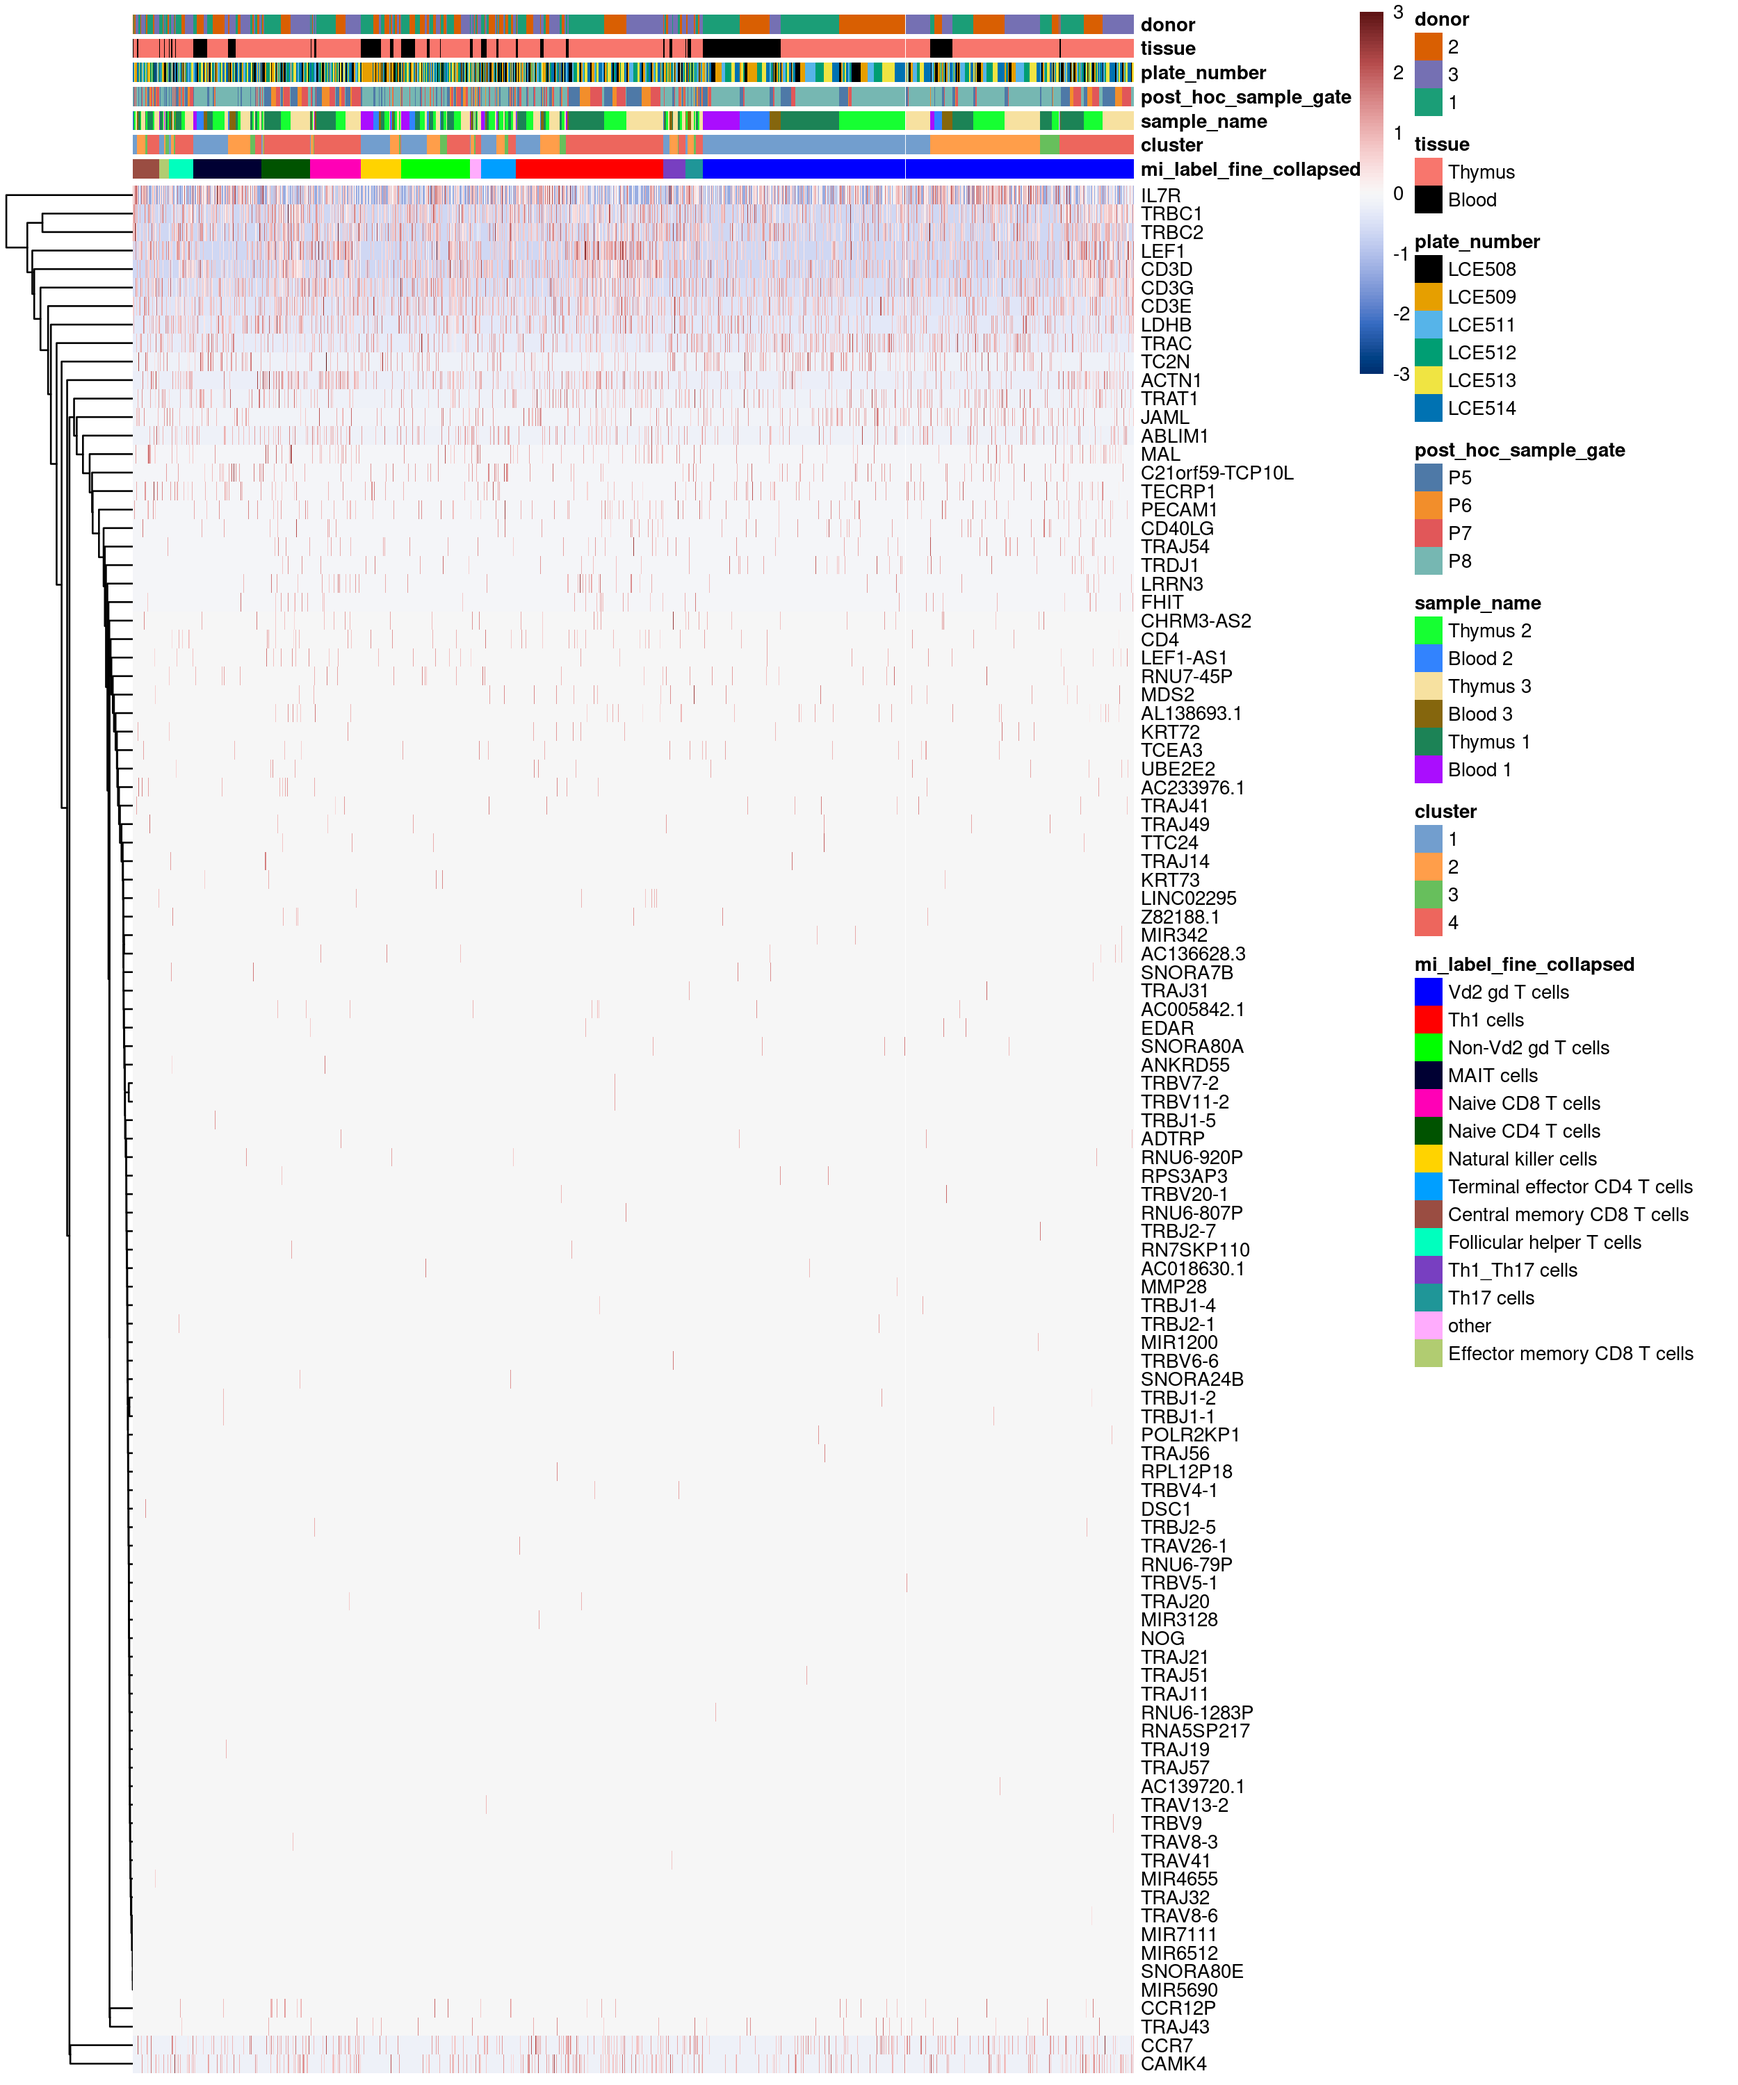
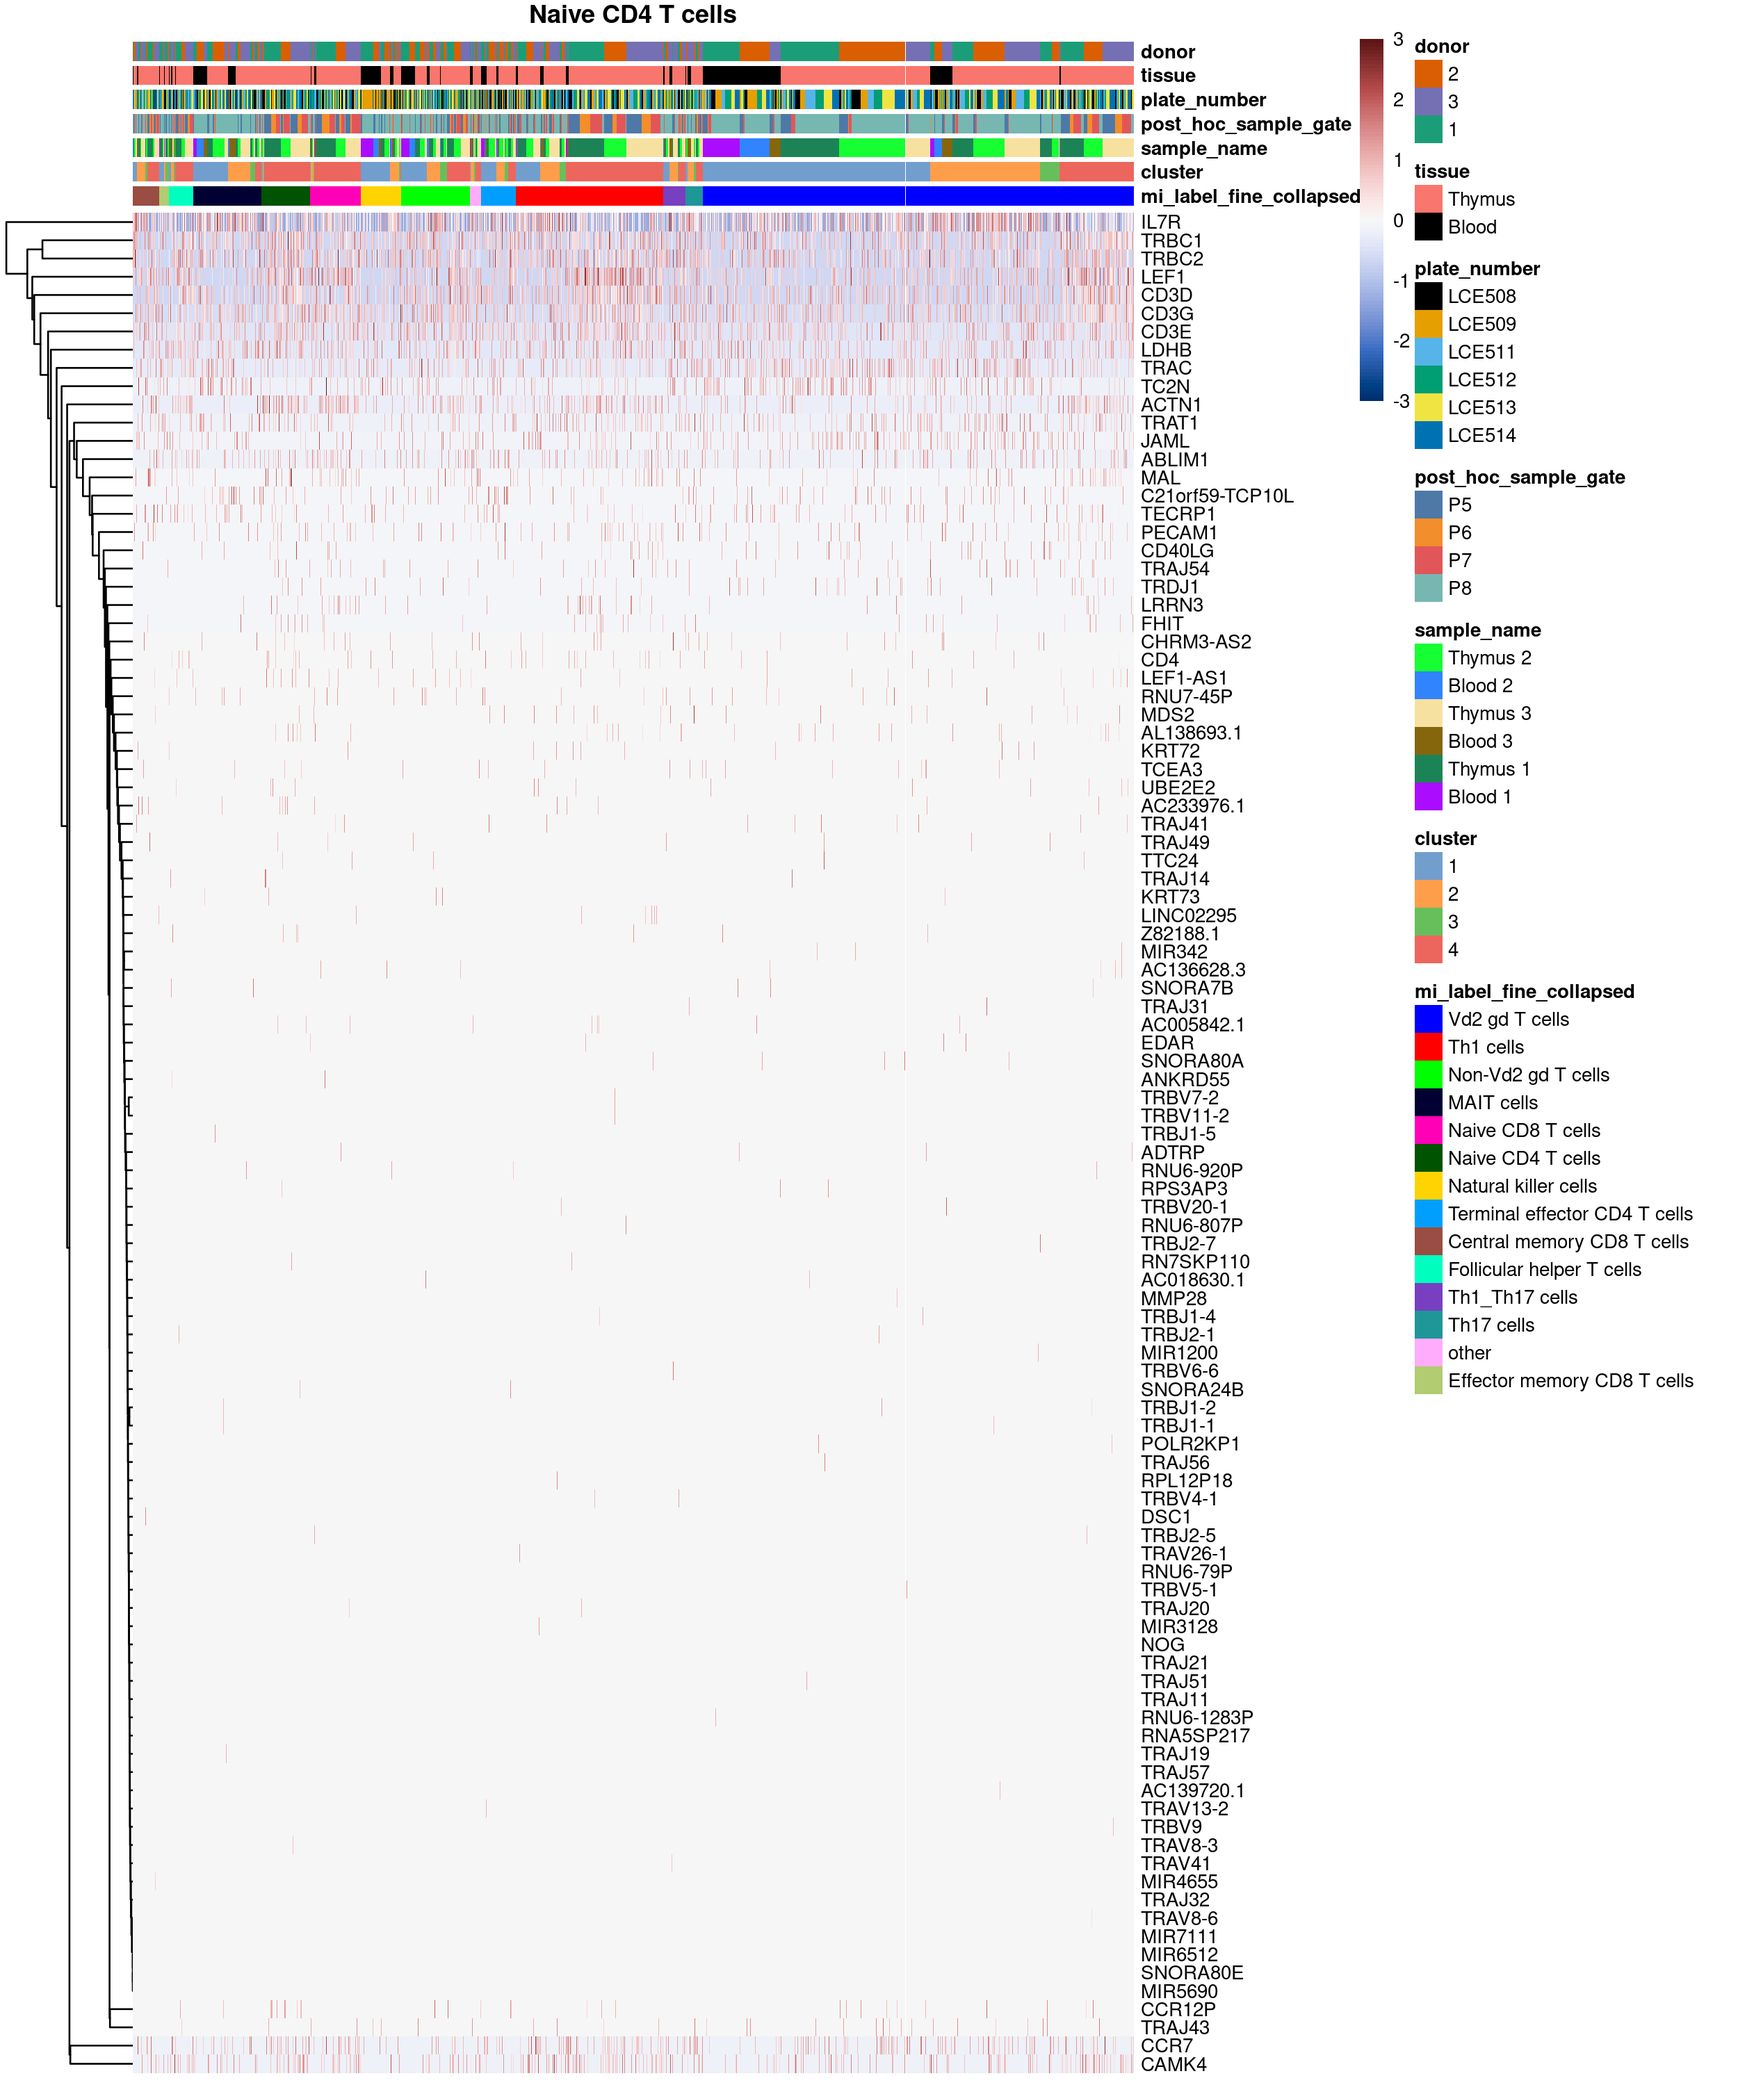
fix titles of plots

Changed region(s): [[0.0, 0.0, 0.9672, 0.992], [0.468, 0.248, 0.4992, 0.279], [0.156, 0.279, 0.1872, 0.31]]

diff --git a/docs/C094_Pellicci.annotate.html b/docs/C094_Pellicci.annotate.html
@@ -4559,7 +4559,7 @@ Show code
   symmetric <span class='op'>=</span> <span class='cn'>TRUE</span>,
   zlim <span class='op'>=</span> <span class='fu'><a href='https://rdrr.io/r/base/c.html'>c</a></span><span class='op'>(</span><span class='op'>-</span><span class='fl'>3</span>, <span class='fl'>3</span><span class='op'>)</span>,
   show_colnames <span class='op'>=</span> <span class='cn'>FALSE</span>,
-  fine <span class='op'>=</span> <span class='va'>example_label</span>,
+  main <span class='op'>=</span> <span class='va'>example_label</span>,
   column_annotation_colors <span class='op'>=</span> <span class='fu'><a href='https://rdrr.io/r/base/list.html'>list</a></span><span class='op'>(</span>
      mi_label_fine_collapsed <span class='op'>=</span> <span class='va'>mi_label_fine_colours</span>,
      cluster <span class='op'>=</span> <span class='va'>cluster_colours</span>,
@@ -4598,8 +4598,8 @@ Show code
     <span class='va'>sce</span><span class='op'>$</span><span class='va'>tissue</span>,
     <span class='va'>sce</span><span class='op'>$</span><span class='va'>donor</span><span class='op'>)</span>,
   order_columns_by <span class='op'>=</span> <span class='fu'><a href='https://rdrr.io/r/base/c.html'>c</a></span><span class='op'>(</span>
-    <span class='st'>"mi_label_fine_collapsed"</span>,
     <span class='st'>"cluster"</span>,
+    <span class='st'>"mi_label_fine_collapsed"</span>,
     <span class='st'>"sample_name"</span>,
     <span class='st'>"post_hoc_sample_gate"</span>,
     <span class='st'>"plate_number"</span>,
@@ -4610,10 +4610,10 @@ Show code
   symmetric <span class='op'>=</span> <span class='cn'>TRUE</span>,
   zlim <span class='op'>=</span> <span class='fu'><a href='https://rdrr.io/r/base/c.html'>c</a></span><span class='op'>(</span><span class='op'>-</span><span class='fl'>3</span>, <span class='fl'>3</span><span class='op'>)</span>,
   show_colnames <span class='op'>=</span> <span class='cn'>FALSE</span>,
-  fine <span class='op'>=</span> <span class='va'>example_label</span>,
+  main <span class='op'>=</span> <span class='va'>example_label</span>,
   column_annotation_colors <span class='op'>=</span> <span class='fu'><a href='https://rdrr.io/r/base/list.html'>list</a></span><span class='op'>(</span>
-     mi_label_fine_collapsed <span class='op'>=</span> <span class='va'>mi_label_fine_colours</span>,
      cluster <span class='op'>=</span> <span class='va'>cluster_colours</span>,
+     mi_label_fine_collapsed <span class='op'>=</span> <span class='va'>mi_label_fine_colours</span>,
      sample_name <span class='op'>=</span> <span class='va'>sample_name_colours</span>,
      post_hoc_sample_gate <span class='op'>=</span> <span class='va'>sample_gate_colours</span>,
      plate_number <span class='op'>=</span> <span class='va'>plate_number_colours</span>,    
@@ -4702,7 +4702,7 @@ Show code
        tissue <span class='op'>=</span> <span class='va'>tissue_colours</span>,
        donor <span class='op'>=</span> <span class='va'>donor_colours</span><span class='op'>)</span>,
     color <span class='op'>=</span> <span class='fu'><a href='https://rdrr.io/r/grDevices/palettes.html'>hcl.colors</a></span><span class='op'>(</span><span class='fl'>101</span>, <span class='st'>"Blue-Red 3"</span><span class='op'>)</span>,
-    fine <span class='op'>=</span> <span class='va'>label</span>,
+    main <span class='op'>=</span> <span class='va'>label</span>,
     fontsize <span class='op'>=</span> <span class='fl'>8</span><span class='op'>)</span>
   
   <span class='fu'><a href='https://rdrr.io/r/grDevices/dev.html'>dev.off</a></span><span class='op'>(</span><span class='op'>)</span>
@@ -4745,8 +4745,8 @@ Show code
       <span class='va'>sce</span><span class='op'>$</span><span class='va'>tissue</span>,
       <span class='va'>sce</span><span class='op'>$</span><span class='va'>donor</span><span class='op'>)</span>,
     colour_columns_by <span class='op'>=</span> <span class='fu'><a href='https://rdrr.io/r/base/c.html'>c</a></span><span class='op'>(</span>
-      <span class='st'>"mi_label_fine_collapsed"</span>,
       <span class='st'>"cluster"</span>,
+      <span class='st'>"mi_label_fine_collapsed"</span>,
       <span class='st'>"sample_name"</span>,
       <span class='st'>"post_hoc_sample_gate"</span>,
       <span class='st'>"plate_number"</span>,
@@ -4758,15 +4758,15 @@ Show code
     zlim <span class='op'>=</span> <span class='fu'><a href='https://rdrr.io/r/base/c.html'>c</a></span><span class='op'>(</span><span class='op'>-</span><span class='fl'>3</span>, <span class='fl'>3</span><span class='op'>)</span>,
     show_colnames <span class='op'>=</span> <span class='cn'>FALSE</span>,
     column_annotation_colors <span class='op'>=</span> <span class='fu'><a href='https://rdrr.io/r/base/list.html'>list</a></span><span class='op'>(</span>
-       mi_label_fine_collapsed <span class='op'>=</span> <span class='va'>mi_label_fine_colours</span>,
        cluster <span class='op'>=</span> <span class='va'>cluster_colours</span>,
+       mi_label_fine_collapsed <span class='op'>=</span> <span class='va'>mi_label_fine_colours</span>,
        sample_name <span class='op'>=</span> <span class='va'>sample_name_colours</span>,
        post_hoc_sample_gate <span class='op'>=</span> <span class='va'>sample_gate_colours</span>,
        plate_number <span class='op'>=</span> <span class='va'>plate_number_colours</span>,    
        tissue <span class='op'>=</span> <span class='va'>tissue_colours</span>,
        donor <span class='op'>=</span> <span class='va'>donor_colours</span><span class='op'>)</span>,
     color <span class='op'>=</span> <span class='fu'><a href='https://rdrr.io/r/grDevices/palettes.html'>hcl.colors</a></span><span class='op'>(</span><span class='fl'>101</span>, <span class='st'>"Blue-Red 3"</span><span class='op'>)</span>,
-    fine <span class='op'>=</span> <span class='va'>label</span>,
+    main <span class='op'>=</span> <span class='va'>label</span>,
     fontsize <span class='op'>=</span> <span class='fl'>8</span><span class='op'>)</span>
   
   <span class='fu'><a href='https://rdrr.io/r/grDevices/dev.html'>dev.off</a></span><span class='op'>(</span><span class='op'>)</span>
